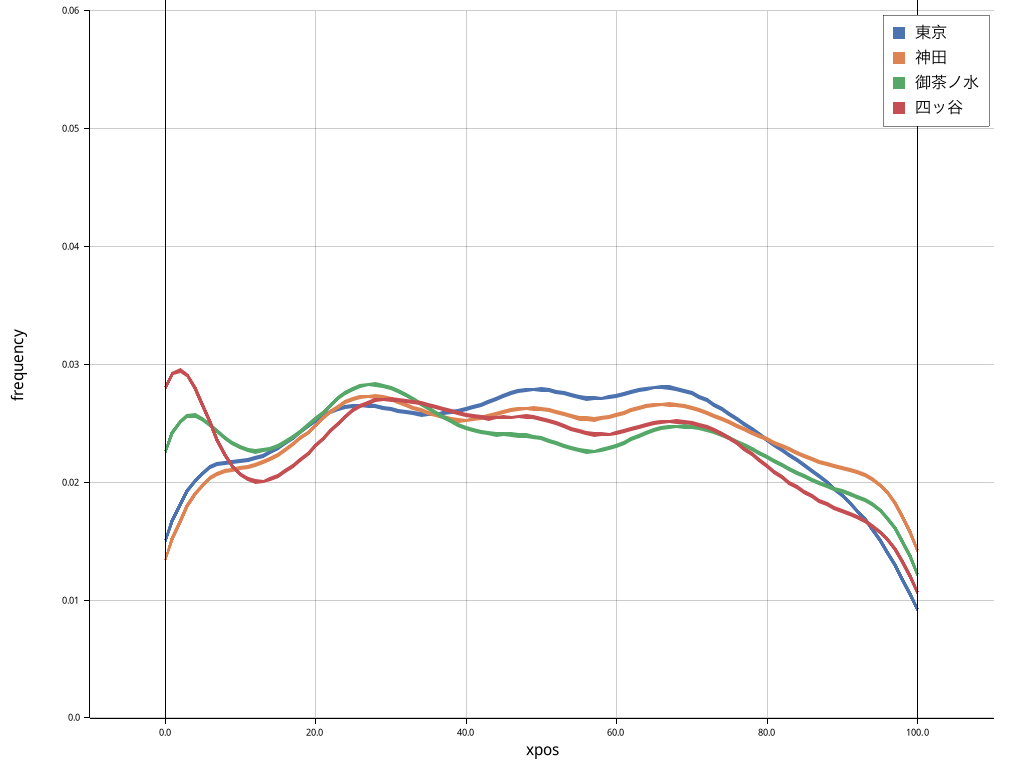
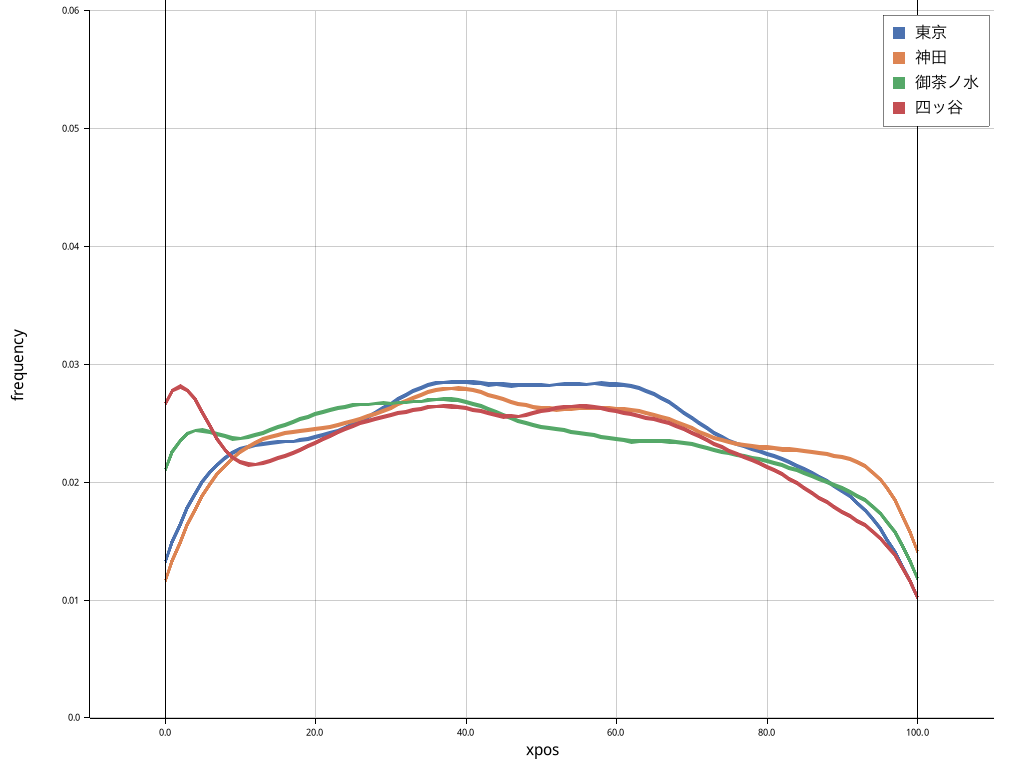
Plot other KDEs in gray for plot_separate

Changed region(s): [[0.1562, 0.4688, 0.9062, 0.7812]]

diff --git a/src/plot/main.rs b/src/plot/main.rs
@@ -12,21 +12,26 @@ pub fn plot_kde_separate(
         Vec<StationStairs>,
         Vec<PassengerLocations>,
     ),
-    multiplier: f64
+    multiplier: f64,
 ) -> Result<
     DrawingArea<BitMapBackend<'static>, Shift>,
     Box<dyn std::error::Error>,
 > {
+    let kdes = train_passengers.iter().map(|tp| make_kde(multiplier, tp));
+
     abstract_plot!(
         "out/out.png",
         0.0..0.06,
         all_station_stairs,
         |i, chart: &mut Chart!()| {
-            let tp: &PassengerLocations = &train_passengers[i];
-            let res = make_kde(multiplier, tp);
-            chart
-                .draw_series(LineSeries::new(res, BLUE.filled()))
-                .unwrap();
+            for (idx, kde) in kdes.clone().enumerate() {
+                let color = if i == idx {
+                    BLUE.stroke_width(2)
+                } else {
+                    RGBColor(100, 100, 100).filled()
+                };
+                chart.draw_series(LineSeries::new(kde, color)).unwrap();
+            }
         }
     )
 }
@@ -37,13 +42,12 @@ pub fn plot_kde_together(
         Vec<PassengerLocations>,
     ),
     filename: &'static str,
-    multiplier: f64
+    multiplier: f64,
 ) -> Result<
     DrawingArea<BitMapBackend<'static>, Shift>,
     Box<dyn std::error::Error>,
 > {
-    let root =
-        BitMapBackend::new(filename, (1024, 768)).into_drawing_area();
+    let root = BitMapBackend::new(filename, (1024, 768)).into_drawing_area();
     root.fill(&WHITE)?;
 
     let mut chart = basic_chart!(&root)
